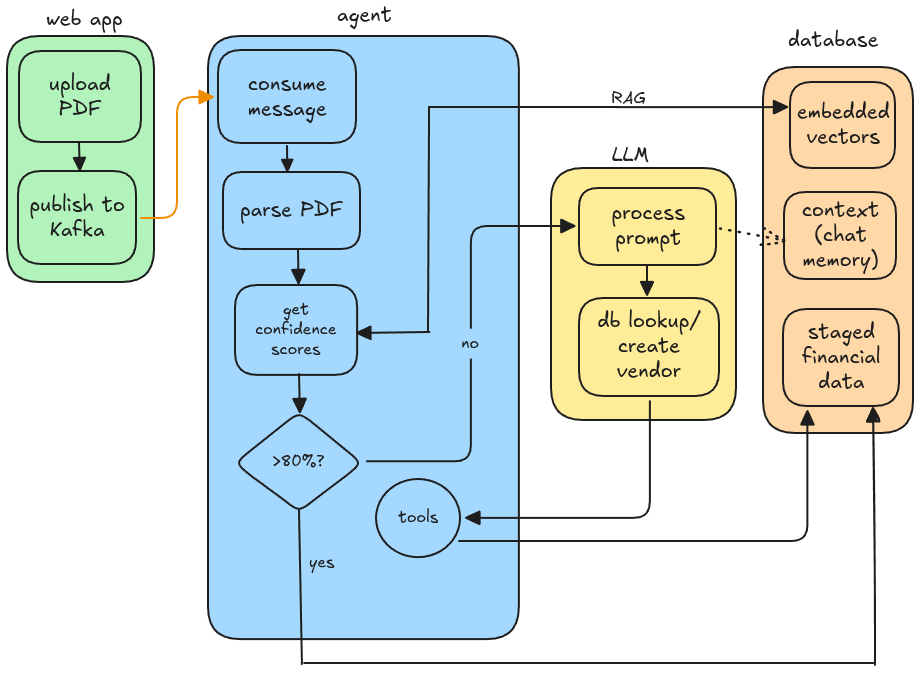
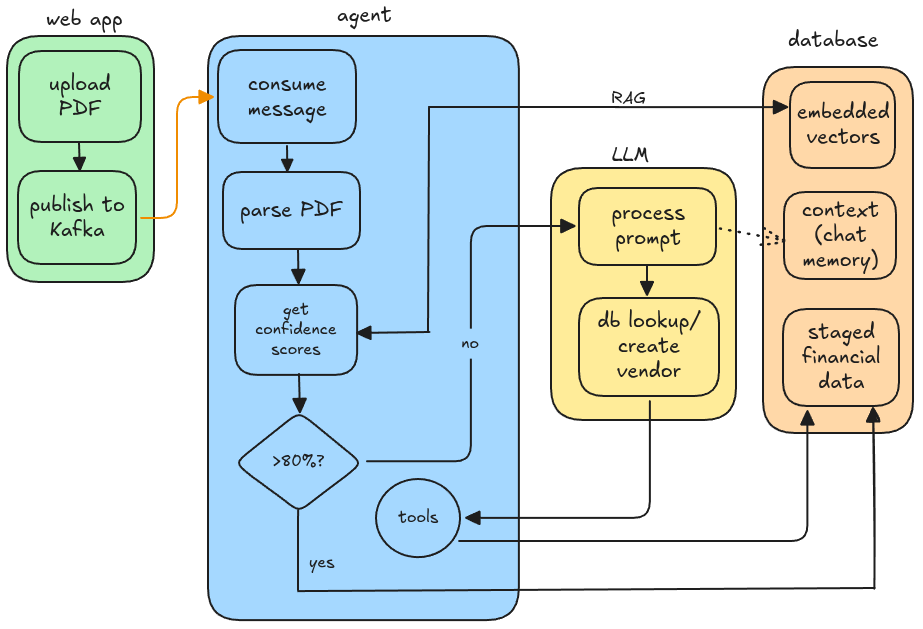
indexed vectors, removed unused fields

diff --git a/src/main/java/net/lavacro/finances/agent/entities/ActionEntity.java b/src/main/java/net/lavacro/finances/agent/entities/ActionEntity.java
@@ -22,8 +22,4 @@ public class ActionEntity {
 	private BigDecimal amount;
 	private LocalDate mydate;
 	private Integer method;
-	private String reference;
-	private Boolean visible;
-	private Boolean reconciled;
-	private Integer category;
 }

diff --git a/README.md b/README.md
@@ -55,6 +55,8 @@ $ apt install postgresql-16-pgvector
 CREATE EXTENSION vector;
 
 ALTER TABLE entities ADD COLUMN embedding vector(768);
+
+CREATE INDEX ON entities USING hnsw (embedding vector_cosine_ops);
 ```
 
 The reason for making the capacity 768 is due to the response of the embedding model:
